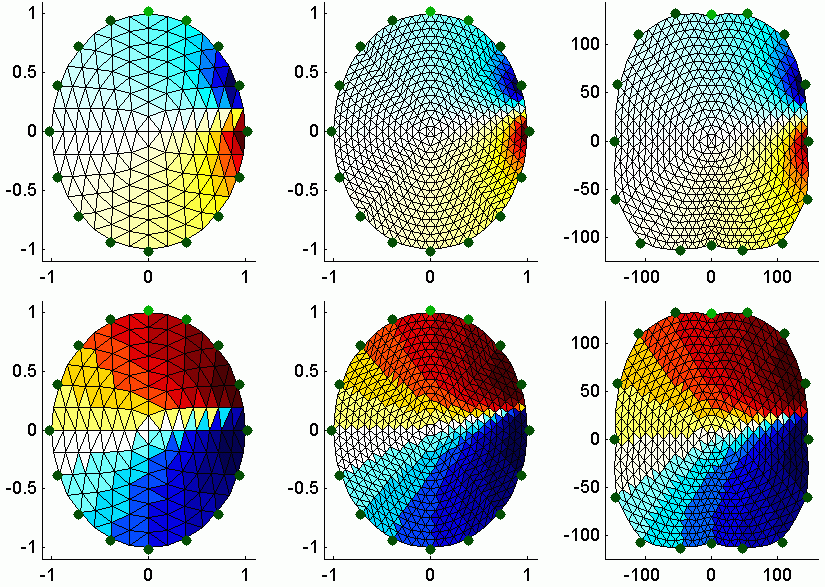
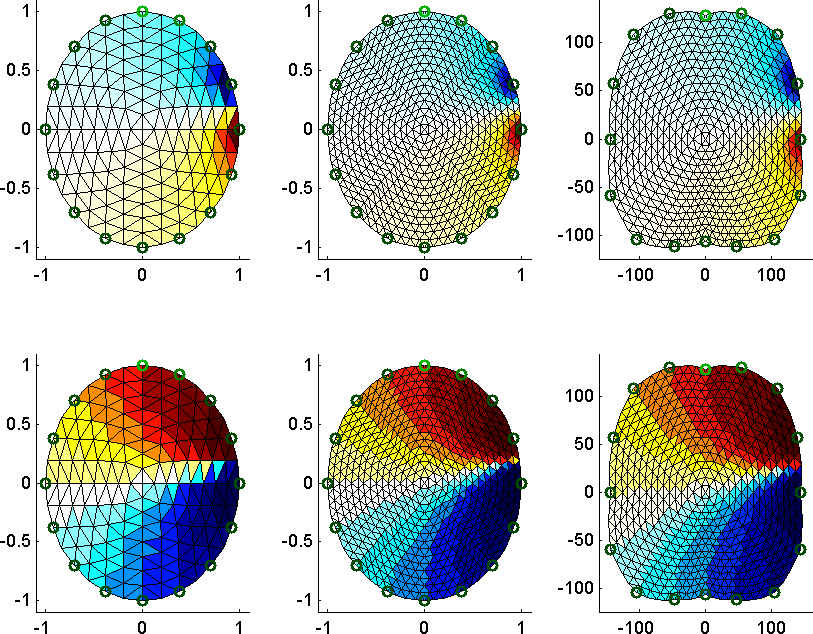
fix colours and fix backprojection direction
git-svn-id: svn+ssh://svn.code.sf.net/p/eidors3d/code/trunk@1517 82006732-fb7e-4a22-9f28-86a212cce563

diff --git a/htdocs/tutorial/EIDORS_basics/backproj_solve03.m b/htdocs/tutorial/EIDORS_basics/backproj_solve03.m
@@ -1,4 +1,4 @@
-% $Id: backproj_solve03.m,v 1.3 2007-10-22 21:34:39 aadler Exp $
+% $Id: backproj_solve03.m,v 1.4 2008-07-22 20:26:02 aadler Exp $
 
 % Gauss Newton Solver
 inv_GN= eidors_obj('inv_model','GN_solver','fwd_model', img.fwd_model);
@@ -6,9 +6,10 @@ inv_GN.reconst_type= 'difference';
 inv_GN.solve= @np_inv_solve;
 inv_GN.RtR_prior= @noser_image_prior;
 inv_GN.jacobian_bkgnd.value= 1;
-inv_GN.hyperparameter.value= 1e-3;
+inv_GN.hyperparameter.value= 0.03;
 
 imgr= inv_solve(inv_GN, vh,vi);
+imgr.calc_colours.ref_level=0;
 subplot(131)
 show_fem(imgr);
 axis equal; axis off
@@ -20,15 +21,15 @@ inv_BP.solve= @backproj_solve;
 inv_BP.backproj_solve.type= 'naive';
 
 imgr= inv_solve(inv_BP, vh,vi);
-subplot(132)
-show_fem(imgr);
+imgr.calc_colours.ref_level=0;
+subplot(132); show_fem(imgr);
 axis equal; axis off
 
 inv_BP.backproj_solve.type= 'simple_filter';
 
 imgr= inv_solve(inv_BP, vh,vi);
-subplot(133)
-show_fem(imgr);
+imgr.calc_colours.ref_level=0;
+subplot(133); show_fem(imgr);
 axis equal; axis off
 
 print -r125 -dpng backproj_solve03a.png;

diff --git a/htdocs/tutorial/EIDORS_basics/tutorial120a.m b/htdocs/tutorial/EIDORS_basics/tutorial120a.m
@@ -1,5 +1,5 @@
 % Compare 2D algorithms
-% $Id: tutorial120a.m,v 1.3 2008-05-19 15:42:41 aadler Exp $
+% $Id: tutorial120a.m,v 1.4 2008-07-22 20:26:02 aadler Exp $
 
 imb=  mk_common_model('c2c',16);
 
@@ -22,6 +22,7 @@ vi_n= vi;
 nampl= std(vi.meas - vh.meas)*10^(-18/20);
 vi_n.meas = vi.meas + nampl *randn(size(vi.meas));
 
+subplot(221)
 show_fem(img);
 axis square; axis off
-print -r50 -dpng tutorial120a.png;
+print -r100 -dpng tutorial120a.png;
